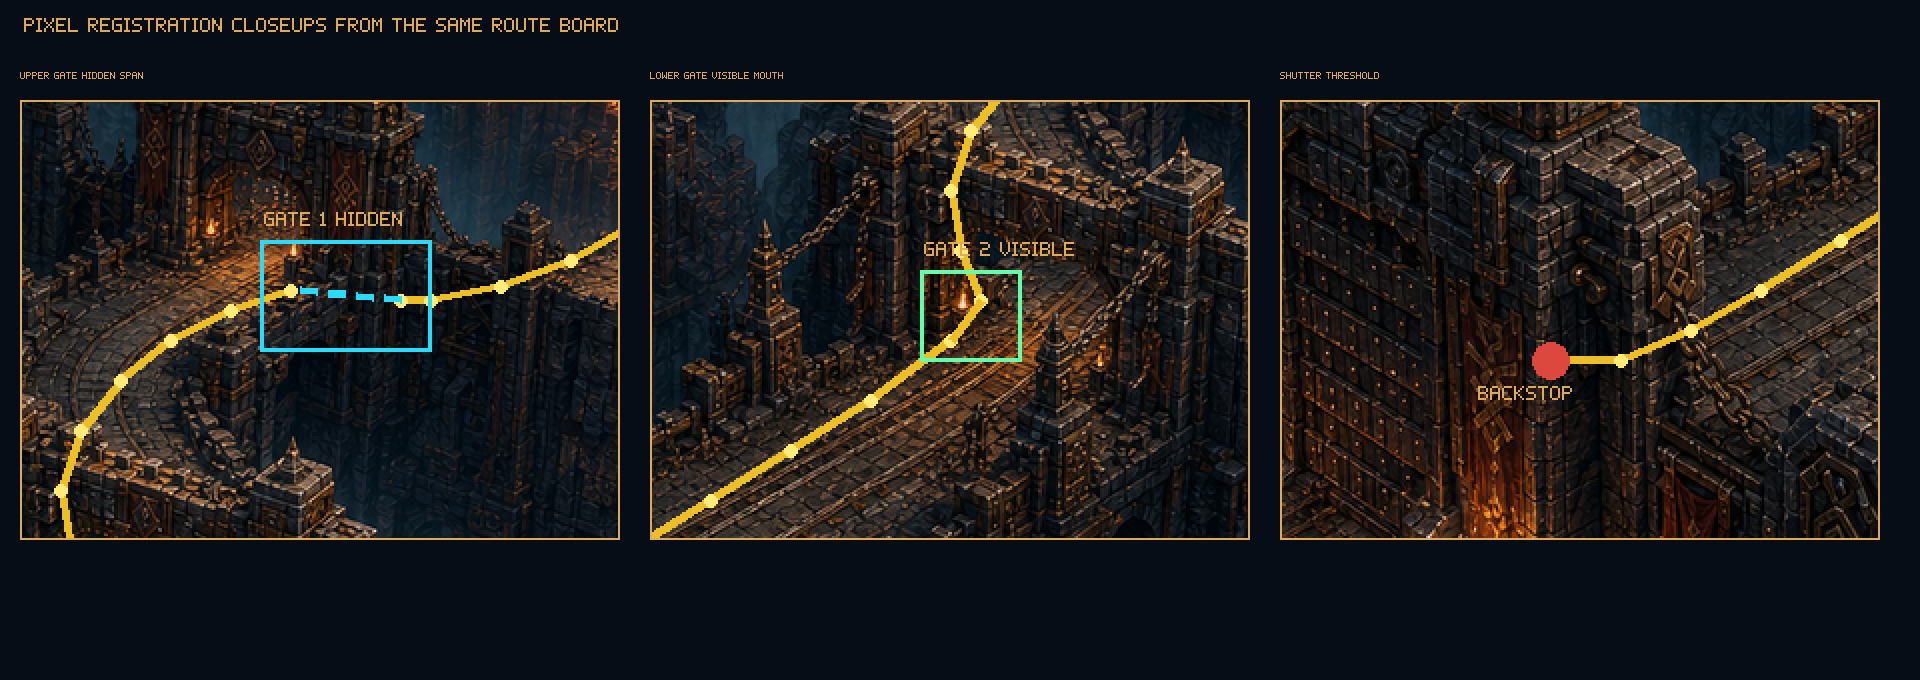
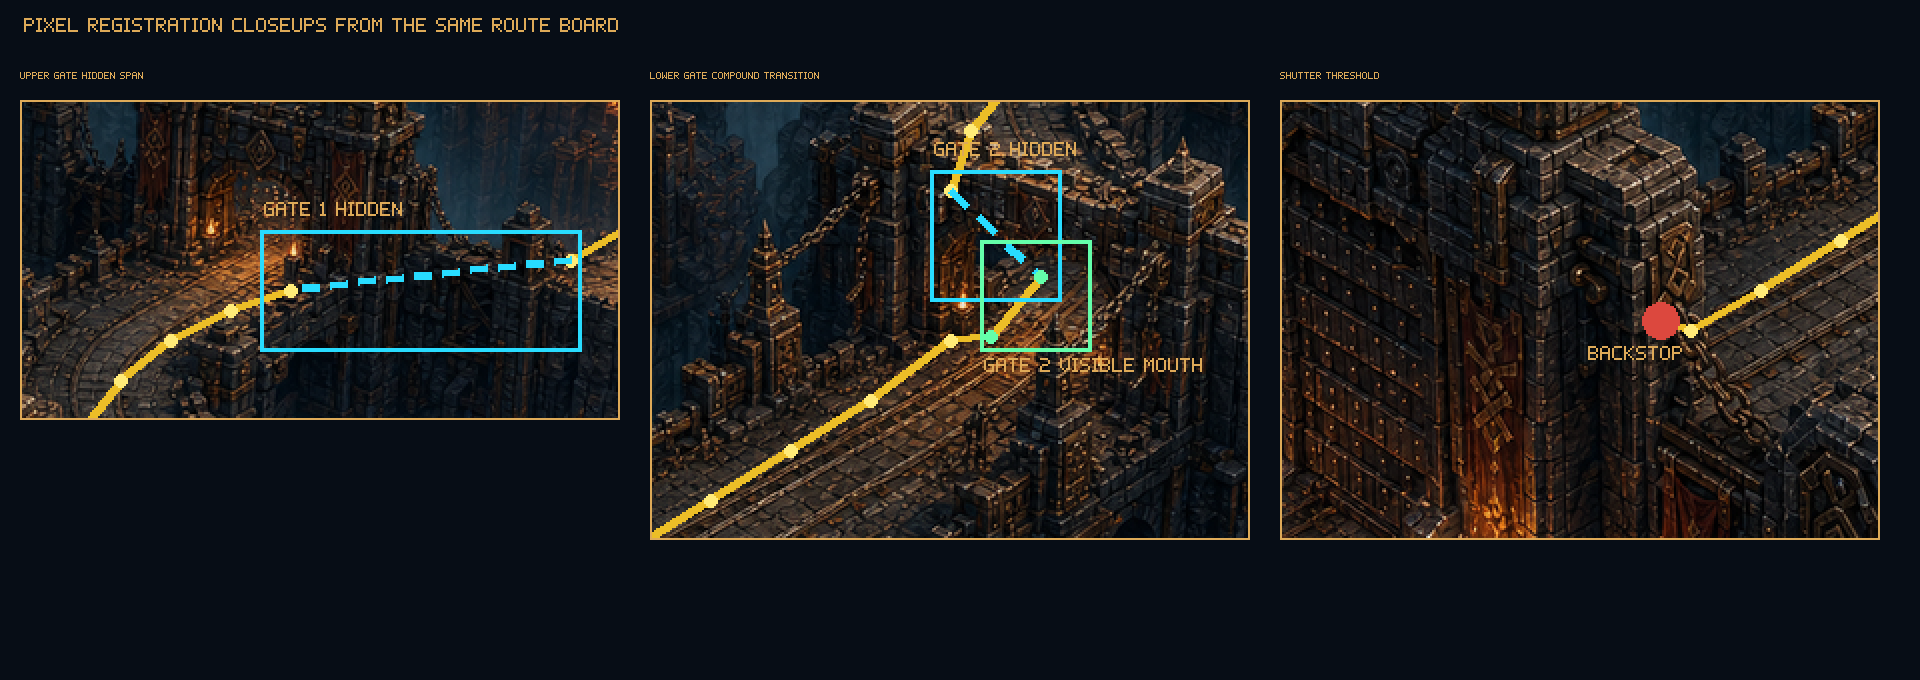
fix: align route transitions to painted floor lips

diff --git a/assets/game-art/production-scene/build_scene.py b/assets/game-art/production-scene/build_scene.py
@@ -1748,19 +1748,25 @@ def _route_board_v3(clean: Image.Image, route: dict[str, Any]) -> Image.Image:
         for x, y in polyline:
             draw.ellipse((x - 3, y - 3, x + 3, y + 3), fill=(255, 235, 120, 255))
     for index, portal in enumerate(route["portals"], start=1):
-        incoming = tuple(portal["incomingAnchor"])
-        outgoing = tuple(portal["outgoingAnchor"])
+        hidden_color = (40, 220, 255, 255)
+        visible_color = (100, 255, 170, 255)
+        for segment in portal["segments"]:
+            start = tuple(segment["from"])
+            end = tuple(segment["to"])
+            if segment["kind"] == "architecture-hidden":
+                _draw_dashed_line_v3(draw, start, end, fill=hidden_color, width=4, dash=8, gap=6)
+            else:
+                draw.line((start, end), fill=(255, 205, 40, 235), width=4)
+                for x, y in (start, end):
+                    draw.ellipse((x - 3, y - 3, x + 3, y + 3), fill=visible_color)
         x0, y0, x1, y1 = portal["bounds"]
-        if portal["visibility"] == "architecture-hidden":
-            color = (40, 220, 255, 255)
-            _draw_dashed_line_v3(draw, incoming, outgoing, fill=color, width=4, dash=8, gap=6)
-            label = f"GATE {index} HIDDEN"
-        else:
-            color = (100, 255, 170, 255)
-            draw.line((incoming, outgoing), fill=(255, 205, 40, 235), width=4)
-            label = f"GATE {index} VISIBLE"
-        draw.rectangle((x0, y0, x1, y1), outline=color, width=2)
-        pixel_text(scene, (x0 + 2, max(8, y0 - 14)), label, 1)
+        draw.rectangle((x0, y0, x1, y1), outline=hidden_color, width=2)
+        pixel_text(scene, (x0 + 2, max(8, y0 - 14)), f"GATE {index} HIDDEN", 1)
+        visible_bounds = portal["visibleMouthBounds"]
+        if visible_bounds is not None:
+            vx0, vy0, vx1, vy1 = visible_bounds
+            draw.rectangle((vx0, vy0, vx1, vy1), outline=visible_color, width=2)
+            pixel_text(scene, (vx0 + 2, min(700, vy1 + 4)), f"GATE {index} VISIBLE MOUTH", 1)
     entrance_x, entrance_y = route["entrance"]["anchor"]
     objective_x, objective_y = route["objective"]["anchor"]
     draw.ellipse((entrance_x - 7, entrance_y - 7, entrance_x + 7, entrance_y + 7), fill=(80, 220, 120, 255))
@@ -1776,8 +1782,8 @@ def _route_registration_closeups_v3(route_board: Image.Image) -> Image.Image:
     board = Image.new("RGBA", (1920, 680), (7, 13, 22, 255))
     pixel_text(board, (24, 18), "PIXEL REGISTRATION CLOSEUPS FROM THE SAME ROUTE BOARD", 2)
     panels = [
-        ("UPPER GATE HIDDEN SPAN", (780, 230, 1080, 450)),
-        ("LOWER GATE VISIBLE MOUTH", (650, 380, 950, 600)),
+        ("UPPER GATE HIDDEN SPAN", (780, 230, 1080, 390)),
+        ("LOWER GATE COMPOUND TRANSITION", (650, 380, 950, 600)),
         ("SHUTTER THRESHOLD", (400, 510, 700, 730)),
     ]
     for index, (label, crop_box) in enumerate(panels):
@@ -2082,7 +2088,7 @@ def verify(root: Path = ROOT) -> None:
             "entrance": {"id": "entrance.background-opening", "anchor": [1145, 100]},
             "objective": {
                 "id": "objective.foreground-shutter",
-                "anchor": [535, 500],
+                "anchor": [590, 480],
                 "kind": "terminal-backstop",
                 "traversable": False,
             },
@@ -2090,20 +2096,20 @@ def verify(root: Path = ROOT) -> None:
                 {
                     "id": "route-zone.background-approach",
                     "depthOrder": 100,
-                    "bounds": [960, 80, 1165, 205],
-                    "visiblePolyline": [[1145, 100], [1120, 125], [1090, 150], [1055, 170], [1020, 183], [985, 190], [970, 190]],
+                    "bounds": [1045, 80, 1165, 180],
+                    "visiblePolyline": [[1145, 100], [1120, 125], [1090, 150], [1055, 170]],
                 },
                 {
                     "id": "route-zone.upper-causeway",
                     "depthOrder": 200,
-                    "bounds": [790, 175, 925, 350],
-                    "visiblePolyline": [[915, 185], [885, 195], [855, 210], [830, 230], [810, 255], [800, 285], [805, 315], [815, 340]],
+                    "bounds": [790, 175, 925, 295],
+                    "visiblePolyline": [[915, 185], [885, 195], [855, 210], [830, 230], [810, 255], [800, 285]],
                 },
                 {
                     "id": "route-zone.lower-causeway",
                     "depthOrder": 300,
-                    "bounds": [525, 350, 810, 515],
-                    "visiblePolyline": [[800, 360], [760, 390], [720, 415], [680, 440], [640, 465], [605, 485], [570, 500], [535, 500]],
+                    "bounds": [580, 350, 830, 495],
+                    "visiblePolyline": [[820, 358], [800, 360], [760, 390], [720, 415], [680, 440], [640, 465], [605, 485], [590, 480]],
                 },
             ],
             "portals": [
@@ -2111,9 +2117,11 @@ def verify(root: Path = ROOT) -> None:
                     "id": "portal.upper-gate",
                     "incomingZoneId": "route-zone.background-approach",
                     "outgoingZoneId": "route-zone.upper-causeway",
-                    "incomingAnchor": [970, 190],
+                    "incomingAnchor": [1055, 170],
                     "outgoingAnchor": [915, 185],
-                    "bounds": [900, 160, 985, 215],
+                    "bounds": [900, 155, 1060, 215],
+                    "visibleMouthBounds": None,
+                    "segments": [{"kind": "architecture-hidden", "from": [1055, 170], "to": [915, 185]}],
                     "visibility": "architecture-hidden",
                     "occlusionMode": "architecture-depth-transition",
                     "traversalOwnerIssue": 273,
@@ -2122,16 +2130,21 @@ def verify(root: Path = ROOT) -> None:
                     "id": "portal.lower-gate",
                     "incomingZoneId": "route-zone.upper-causeway",
                     "outgoingZoneId": "route-zone.lower-causeway",
-                    "incomingAnchor": [815, 340],
-                    "outgoingAnchor": [800, 360],
-                    "bounds": [785, 325, 835, 370],
-                    "visibility": "visible-floor-gate-mouth",
-                    "occlusionMode": "visible-depth-transition",
+                    "incomingAnchor": [800, 285],
+                    "outgoingAnchor": [820, 358],
+                    "bounds": [790, 275, 855, 340],
+                    "visibleMouthBounds": [815, 310, 870, 365],
+                    "segments": [
+                        {"kind": "architecture-hidden", "from": [800, 285], "to": [845, 328]},
+                        {"kind": "visible-floor-gate-mouth", "from": [845, 328], "to": [820, 358]},
+                    ],
+                    "visibility": "compound-hidden-visible-mouth",
+                    "occlusionMode": "compound-depth-transition",
                     "traversalOwnerIssue": 273,
                 },
             ],
             "chokepointPortalIds": ["portal.upper-gate", "portal.lower-gate"],
-            "validation": "pixel-surveyed-visible-segments-and-registered-gate-mouths",
+            "validation": "pixel-surveyed-visible-segments-and-compound-registered-gate-transitions",
         },
         "entityAnchors": {"ironWardenTruthScreen": {"groundPosition": [674, 434], "depthSortY": 434}, "mineRaiderTruthScreen": {"groundPosition": [802, 398], "depthSortY": 398}},
         "entityStates": {"iron-warden-idle": {"canvas": [180, 120], "pivot": [90, 112], "facing": "upper-right", "nominalHeight": 104}, "iron-warden-shield-slam": {"canvas": [180, 120], "pivot": [90, 112], "facing": "upper-right", "nominalHeight": 104}, "mine-raider-idle": {"canvas": [128, 108], "pivot": [64, 100], "facing": "lower-left", "nominalHeight": 92}, "mine-raider-attack": {"canvas": [128, 108], "pivot": [64, 100], "facing": "lower-left", "nominalHeight": 92}},
@@ -2294,9 +2307,15 @@ def verify(root: Path = ROOT) -> None:
             ids.add(record["id"])
             if record["category"] not in {"evidence", "occlusion-mask"}:
                 assets[record["id"]] = image.convert("RGBA")
-    actual_exports = {path.relative_to(root).as_posix() for path in (package / "exports").rglob("*.png")}
+    actual_exports = {
+        path.relative_to(root).as_posix() for path in (package / "exports").rglob("*") if path.is_file()
+    }
     declared_exports = {record["path"] for record in manifest["files"]}
-    actual_evidence = {path.relative_to(root).as_posix() for path in (root / EVIDENCE.relative_to(ROOT)).glob("*.png")}
+    actual_evidence = {
+        path.relative_to(root).as_posix()
+        for path in (root / EVIDENCE.relative_to(ROOT)).rglob("*")
+        if path.is_file()
+    }
     declared_evidence = {record["path"] for record in manifest["evidence"]}
     if actual_exports != declared_exports or actual_evidence != declared_evidence:
         raise ValueError("Export or evidence directory contains stale/unmanifested files")
@@ -2369,6 +2388,8 @@ def verify(root: Path = ROOT) -> None:
                 "incomingAnchor",
                 "outgoingAnchor",
                 "bounds",
+                "visibleMouthBounds",
+                "segments",
                 "visibility",
                 "occlusionMode",
                 "traversalOwnerIssue",
@@ -2386,10 +2407,36 @@ def verify(root: Path = ROOT) -> None:
         if tuple(zone_by_id[expected_outgoing]["visiblePolyline"][0]) != outgoing_anchor:
             raise ValueError("Portal outgoing anchor must begin its outgoing visible zone")
         x0, y0, x1, y1 = validate_rectangle(portal["bounds"], f"scene.route.portals[{index}].bounds")
-        if not all(x0 <= x <= x1 and y0 <= y <= y1 for x, y in (incoming_anchor, outgoing_anchor)):
-            raise ValueError("Portal transition anchors must lie inside the declared portal mouth")
-        expected_visibility = ["architecture-hidden", "visible-floor-gate-mouth"][index]
-        expected_occlusion_mode = ["architecture-depth-transition", "visible-depth-transition"][index]
+        visible_bounds_value = portal["visibleMouthBounds"]
+        visible_bounds = (
+            None
+            if visible_bounds_value is None
+            else validate_rectangle(visible_bounds_value, f"scene.route.portals[{index}].visibleMouthBounds")
+        )
+        segments = portal["segments"]
+        if not isinstance(segments, list) or not segments:
+            raise ValueError("Portal transition must contain at least one registered segment")
+        expected_segment_kinds = [["architecture-hidden"], ["architecture-hidden", "visible-floor-gate-mouth"]][index]
+        if [segment.get("kind") if isinstance(segment, dict) else None for segment in segments] != expected_segment_kinds:
+            raise ValueError("Portal segment kinds/order drifted")
+        previous_end = incoming_anchor
+        for segment_index, raw_segment in enumerate(segments):
+            segment = _assert_strict_v2(raw_segment, {"kind", "from", "to"}, f"scene.route.portals[{index}].segments[{segment_index}]")
+            segment_start = validate_point(segment["from"], f"scene.route.portals[{index}].segments[{segment_index}].from")
+            segment_end = validate_point(segment["to"], f"scene.route.portals[{index}].segments[{segment_index}].to")
+            if segment_start != previous_end:
+                raise ValueError("Portal segments must form one continuous ordered transition")
+            containing_bounds = (x0, y0, x1, y1) if segment["kind"] == "architecture-hidden" else visible_bounds
+            if containing_bounds is None or not all(
+                containing_bounds[0] <= x <= containing_bounds[2] and containing_bounds[1] <= y <= containing_bounds[3]
+                for x, y in (segment_start, segment_end)
+            ):
+                raise ValueError("Portal segment points must lie inside their declared hidden/visible bounds")
+            previous_end = segment_end
+        if previous_end != outgoing_anchor:
+            raise ValueError("Final portal segment must terminate at outgoing zone anchor")
+        expected_visibility = ["architecture-hidden", "compound-hidden-visible-mouth"][index]
+        expected_occlusion_mode = ["architecture-depth-transition", "compound-depth-transition"][index]
         if (
             portal["visibility"] != expected_visibility
             or portal["occlusionMode"] != expected_occlusion_mode
@@ -2558,10 +2605,16 @@ def verify(root: Path = ROOT) -> None:
         root / expected_proofs["foreground"],
         "Foreground-isolation proof",
     )
+    expected_route_board = _route_board_v3(assets["shuttergate-clean-plate-1280x720"], scene["route"])
     require_same_pixels(
-        _route_board_v3(assets["shuttergate-clean-plate-1280x720"], scene["route"]),
+        expected_route_board,
         root / expected_proofs["route"],
         "Piecewise-route proof",
+    )
+    require_same_pixels(
+        _route_registration_closeups_v3(expected_route_board),
+        root / "docs/visual-evidence/production-scene/route-registration-closeups.png",
+        "Route-registration closeup proof",
     )
     entity_images = {asset: assets[asset] for asset in scene["entityStates"]}
     require_same_pixels(_alignment_board_v2(entity_images), root / expected_proofs["alignment"], "Entity-alignment proof")
@@ -2754,7 +2807,7 @@ def verify(root: Path = ROOT) -> None:
[6 lines of base64/hex data omitted]
     }
     if {record["path"]: record["role"] for record in provenance["inputs"]} != expected_roles:

diff --git a/assets/game-art/production-scene/README.md b/assets/game-art/production-scene/README.md
@@ -12,7 +12,7 @@ Verify committed files without rewriting them:
 
 `uv run --python 3.13.5 --with-requirements assets/game-art/production-scene/requirements.lock python3 assets/game-art/production-scene/build_scene.py --verify`
 
-The verifier strictly rejects extra contract properties, stale/unmanifested files, source or output digest drift, provenance edits that attempt to bless changed approved masters/references, disconnected or misordered route zones/portals, a traversable shutter objective, route endpoints beneath the HUD, unaligned state pivots, noncanonical entity depth, static impact art in the neutral count proof, incomplete mutable HUD variants, actual Python/Pillow/zlib version drift, and lighting/provenance drift. The reproducibility run rebuilds in an isolated root and compares the complete manifest.
+The verifier strictly rejects extra contract properties, every recursively discovered stale/unmanifested export or evidence file regardless of extension, source or output digest drift, provenance edits that attempt to bless changed approved masters/references, disconnected or misordered route zones/portal segments, a traversable shutter objective, route endpoints beneath the HUD, route-board or registration-closeup pixel drift, unaligned state pivots, noncanonical entity depth, static impact art in the neutral count proof, incomplete mutable HUD variants, actual Python/Pillow/zlib version drift, and lighting/provenance drift. The reproducibility run rebuilds in an isolated root and compares the complete manifest.
 
 ## Runtime-ready boundaries for #287
 
@@ -21,8 +21,8 @@ The verifier strictly rejects extra contract properties, stale/unmanifested file
 - The neutral reconstruction contains one readable Warden and one readable raider; Shield Slam impact is proved separately.
 - HUD chrome is separate from fixture values, health fill, target selection, ability readiness/cooldown, and pause/resume state.
 - The bottom HUD begins at x=272, leaving the foreground shutter approach and objective anchor visible.
-- The painted route is represented as three pixel-surveyed visible depth zones. The upper gate has one architecture-hidden transition; the lower gate mouth remains visibly floored and is marked as a visible depth transition. The route terminates at the foreground-shutter backstop. There is no rail-crossing, winding-path, branching-path, or global exposed-floor-mask requirement.
-- The diagnostic route overlay uses gold only on surveyed visible floor, cyan only across the upper architecture-hidden span, and green around the visible lower gate mouth. It is never player UI. The shutter is a nontraversable objective; the route terminates at its threshold.
+- The painted route is represented as three pixel-surveyed visible depth zones. The upper gate is architecture-hidden. The lower gate is compound: a hidden approach around the parapet followed by a visibly floored mouth. The route terminates at the foreground-shutter threshold. There is no rail-crossing, winding-path, branching-path, or global exposed-floor-mask requirement.
+- The diagnostic route overlay uses gold only on surveyed visible floor, cyan for both architecture-hidden spans, and green around the lower visible mouth. Full-frame and closeup proofs are rebuilt and pixel-compared by read-only verification. They are never player UI. The shutter is a nontraversable objective.
 - Occlusion is explicitly bounded to #287's two fixed truth-screen anchors at Warden `[674, 434]` and raider `[802, 398]`. Portal traversal contracts and production movement remain owned by #273; #286 declares the portal mouths and depth transitions without claiming complete traversal animation.
 - Lighting uses straight-alpha normal compositing in sRGB, after entities/foreground and before combat effects/HUD.
 
@@ -32,7 +32,7 @@ The verifier strictly rejects extra contract properties, stale/unmanifested file
 |---|---|---|---|---|
 | Clean plate | Exact pixels and source identity | Minor export optimization with pixel identity | Replacement pixels or composition | #286 / product owner |
 | Camera/framing | Elevated orthographic 2.5D, 1280×720 review frame | None | Projection or framing change | #286 / product owner |
-| Route, entrance, gate | Pixel-surveyed piecewise topology, background entrance, one hidden upper transition, one visible lower gate mouth, terminal shutter objective | Local readability grading | Topology, entrance, portal, objective, or depth-zone change | #286 / product owner |
+| Route, entrance, gate | Pixel-surveyed piecewise topology, background entrance, hidden upper transition, compound lower transition, terminal shutter objective | Local readability grading | Topology, entrance, portal, objective, or depth-zone change | #286 / product owner |
 | Entity scale/anchors | 104 px Warden, 92 px raider, pivots, fixed #287 anchors | Bounded sprite cleanup preserving silhouette/pivot | Proportion, scale family, or anchor change | #286 / product owner |
 | HUD regions | Exact top and right-weighted bottom regions | Ornament and information hierarchy | Region placement or gate-obscuring layout | #275 / product owner |
 | HUD state | Minimum #287 value/control variants | Typography/icon polish | Authoritative meaning or control relocation | #275 |
@@ -52,7 +52,7 @@ The clean plate retains the wider diagonal, architecture-forward composition sho
 |---|---|---|---|
 | Composition | Accept the wider diagonal camera, pixel-registered painted-floor route, entrance, shutter backstop, and HUD regions as #287's floor | Clean plate is complete and independently layered | Encounter density and production battlefield polish: #273 |
 | Entities | Accept 104 px Warden, 92 px raider, shared pivots, and two fixed anchors | Individual removal keeps the same clean-plate pixel digest | Full movement/combat/hit/death animation: #273 |
-| Occlusion | Accept the two fixed #287 anchors and registered gate/depth transitions | Two off-route samples demonstrate partial architecture masking; the route board distinguishes the one hidden span from the visible gate mouth | Production portal masks, traversal, and movement are not claimed: #273 |
+| Occlusion | Accept the two fixed #287 anchors and registered gate/depth transitions | Two off-route samples demonstrate partial architecture masking; route evidence distinguishes hidden spans from the lower visible mouth | Production portal masks, traversal, and movement are not claimed: #273 |
 | HUD | Accept regions and minimum state separation for #287 | Chrome, values, target, ability, and pause variants are separate | Final ornament/information hierarchy: #275 |
 | Responsive presentation | No visual decision requested | Crop policy is metadata only | Layout, accessibility modes, and viewport evidence: #276 |
 

diff --git a/assets/game-art/production-scene/generation-log.md b/assets/game-art/production-scene/generation-log.md
@@ -20,7 +20,7 @@ Visual QA found zero apparent defenders, enemies, creature silhouettes, combat e
 
 `build_scene.py` deterministically derives the two alpha character states needed by #287 from the approved #282 character masters, authors separate effect/HUD/lighting/mask layers, composes the proof, publishes isolation boards and an in-scene scale study, and records every output digest. These poses are a bounded truth-screen set rather than a production animation set; #273 owns complete movement, combat, hit, and death animation coverage. No third-party asset, font, texture, stock image, or model is used.
 
-The clean plate route was surveyed directly against the painted pixels after product-owner review found the first segment proposal visibly misregistered. It now uses three visible floor/depth zones, one cyan architecture-hidden transition at the upper gate, one green visibly floored transition at the lower gate mouth, and a terminal foreground-shutter threshold. Rail crossing, winding, branching, and one globally exposed clearance mask are not requirements. Full traversal masks and movement remain owned by issue #273.
+The clean plate route was surveyed directly against the painted pixels after product-owner review found the first segment proposal visibly misregistered. A skeptical pixel review then removed gold points that crossed upper and lower parapets, extended the upper cyan span to the true floor lips, represented the lower gate as a compound hidden-plus-visible transition, and moved the terminal point off the shutter façade onto the floor threshold. Rail crossing, winding, branching, and one globally exposed clearance mask are not requirements. Full traversal masks and movement remain owned by issue #273.
 
 ## Reproducible export toolchain
 
